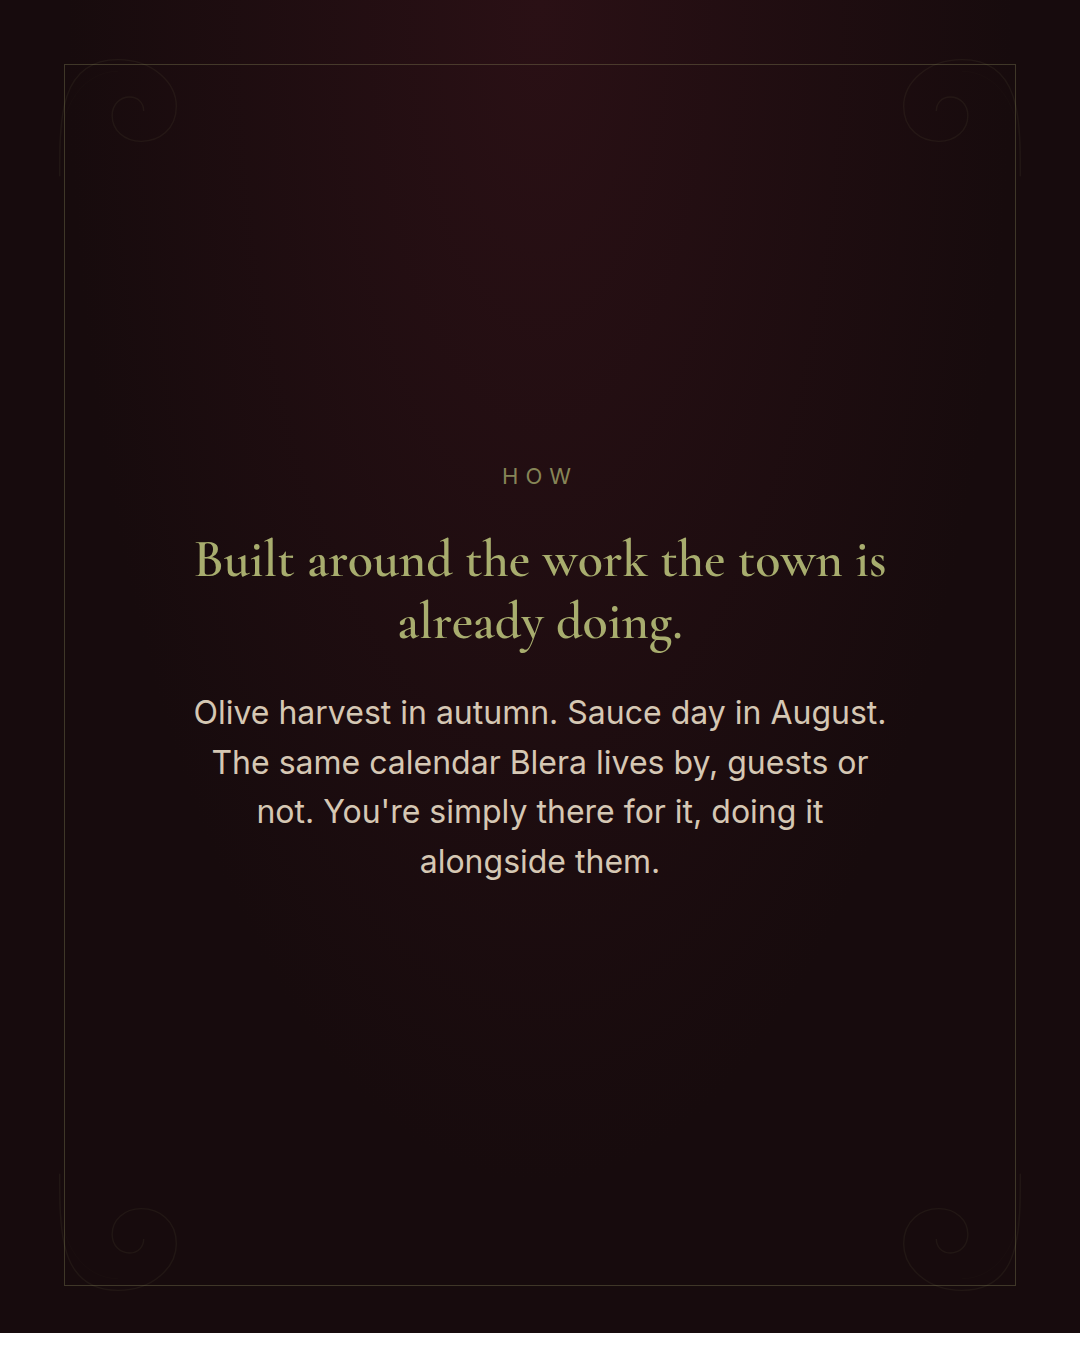
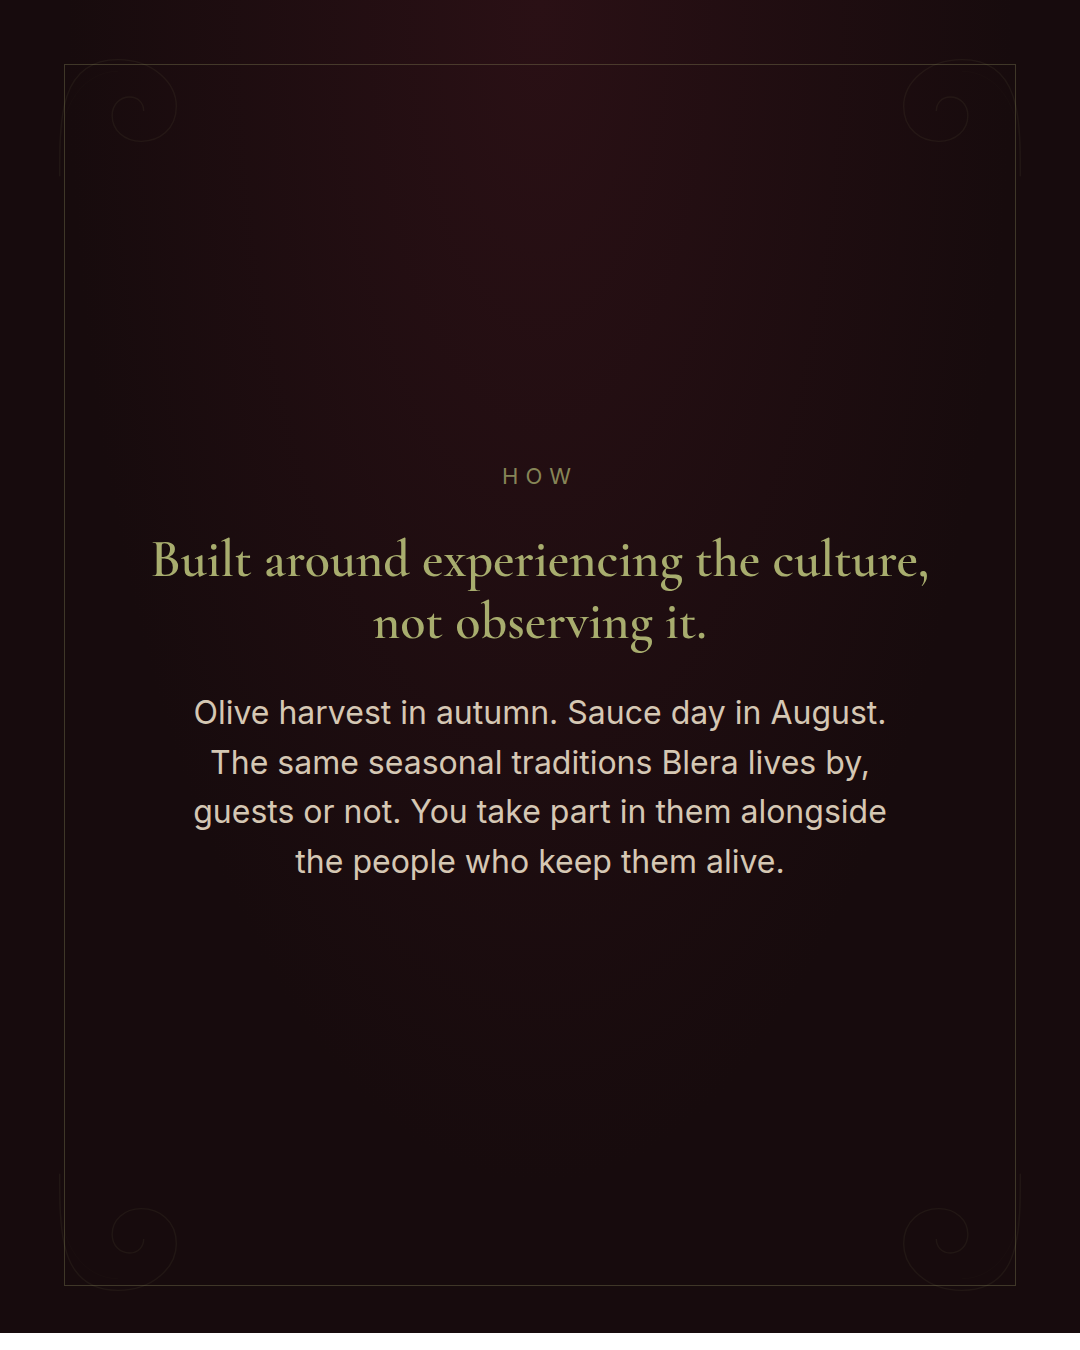
Reframe slide 5 as culture not labor; drop price from the CTA slide
Slide 5 now reads "Built around experiencing the culture, not
observing it" instead of framing the harvest/sauce-day activities as
"work" -- per Nikolai, the point is cultural participation, not labor.

Slide 8 (CTA) now shows only the departure date and link, no price --
removed by request. Caption updated to match both changes.

Changed region(s): [[0.1833, 0.56, 0.825, 0.6533], [0.1222, 0.4044, 0.8556, 0.4978]]

diff --git a/INSTAGRAM_LAUNCH_POSTS.md b/INSTAGRAM_LAUNCH_POSTS.md
@@ -26,10 +26,10 @@ instead of spectators of it.
 2. Why — "It's human nature to want to belong to something."
 3. Why — "So instead of showing you Blera, we fold you into it."
 4. How — "So we keep every group small. 6–10 guests. Never more."
-5. How — "Built around the work the town is already doing."
+5. How — "Built around experiencing the culture, not observing it."
 6. Where — "Blera. Tuscia, Italy."
 7. What — "Six days as a local, not six days of sightseeing."
-8. CTA — "First departure: Nov 9–15, 2026."
+8. CTA — "First departure: Nov 9–15, 2026." (no price — deliberately left off this carousel)
 
 **Caption:**
 ```
@@ -39,11 +39,11 @@ It's human nature to want to belong to something. Not just to see a place, but t
 
 So instead of showing you Blera, we fold you into it. You don't watch the olive harvest. You're in it. You don't photograph the table. You're sitting at it. For one week, you're not a visitor. You're part of the town.
 
-That's why every group stays small (6–10 guests) and every day is built around the real, seasonal work Blera is already doing. You're simply there for it, alongside the people whose town this is.
+That's why every group stays small (6–10 guests) and every day is built around experiencing Blera's culture, not observing it. Olive harvest in autumn, sauce day in August. You take part in the same seasonal traditions the town lives by, alongside the people who keep them alive.
 
 Blera is a 2,800-year-old Etruscan hill town 90 minutes from Rome, carved into volcanic rock. Almost nobody visits.
 
-First departure: November 9–15, 2026. €1,400/person early bird before September 15.
+First departure: November 9–15, 2026.
 
 Link in bio.
 
